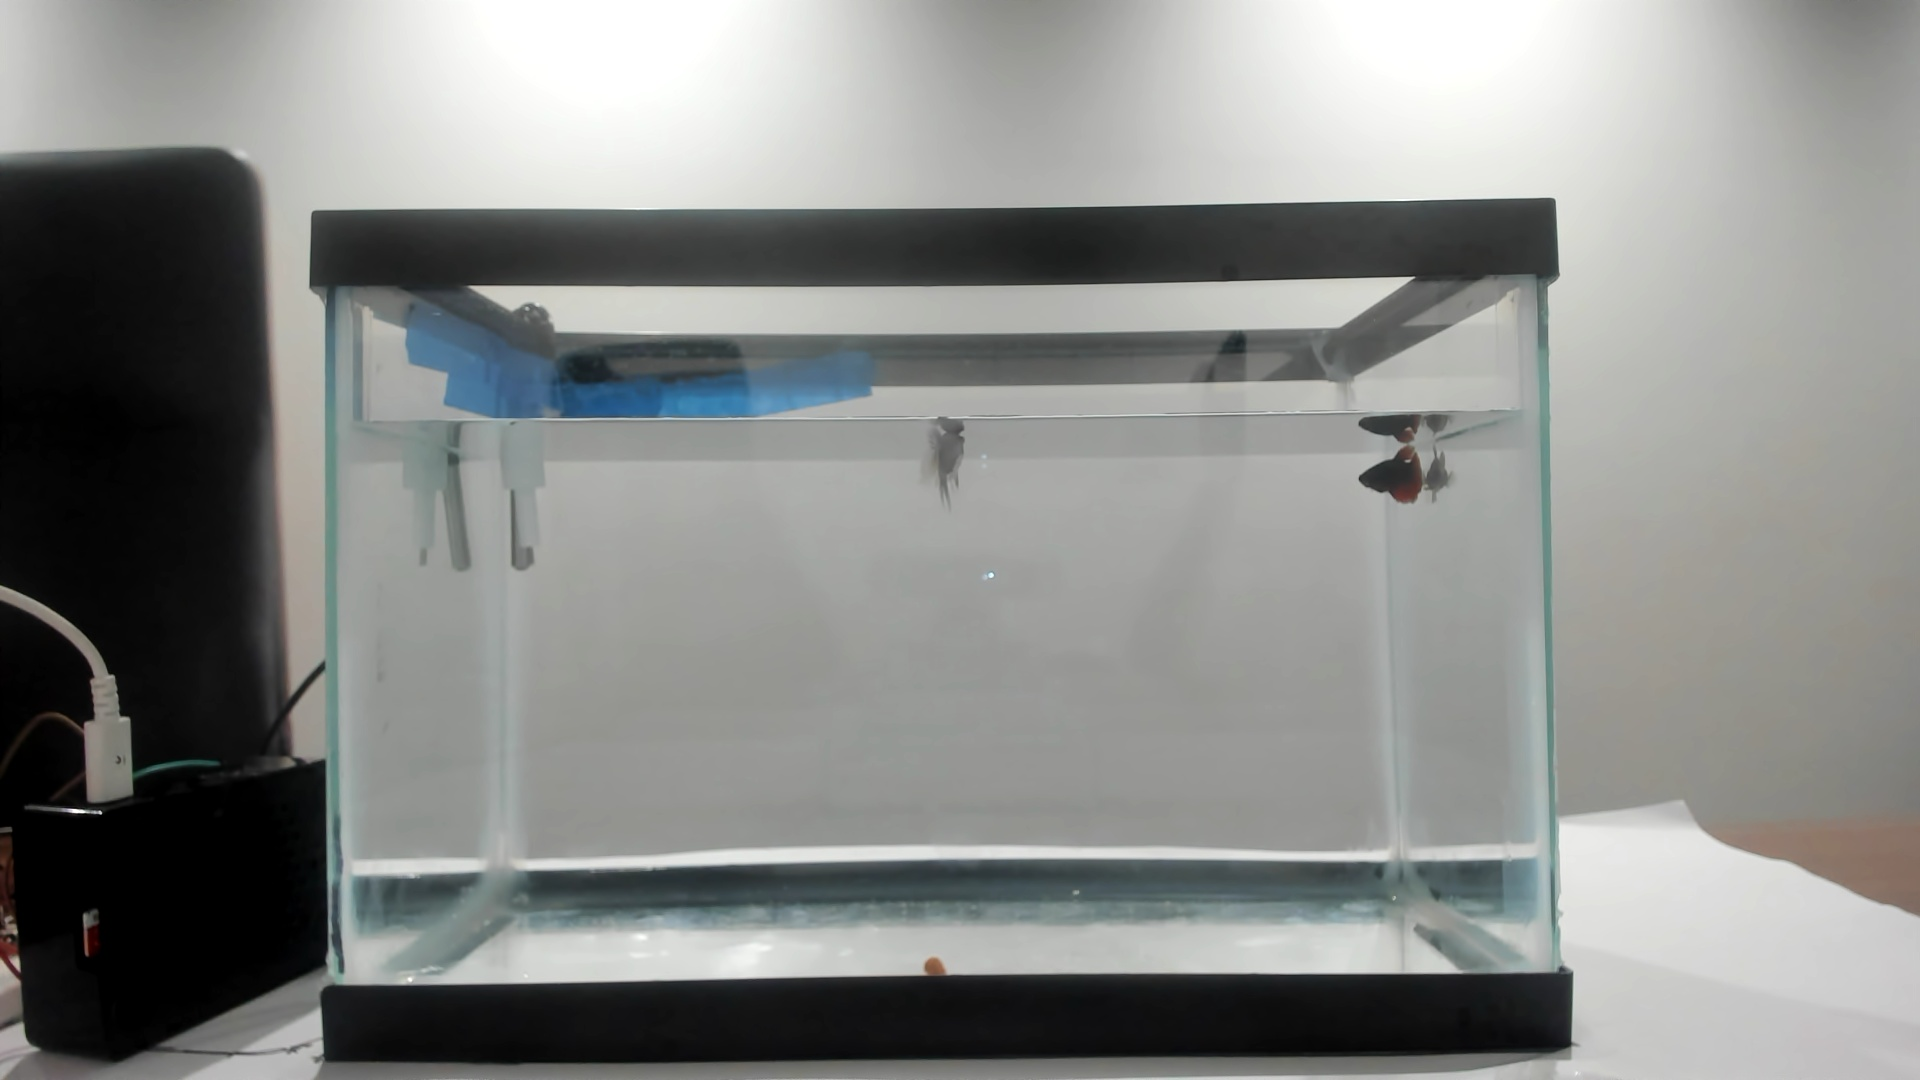
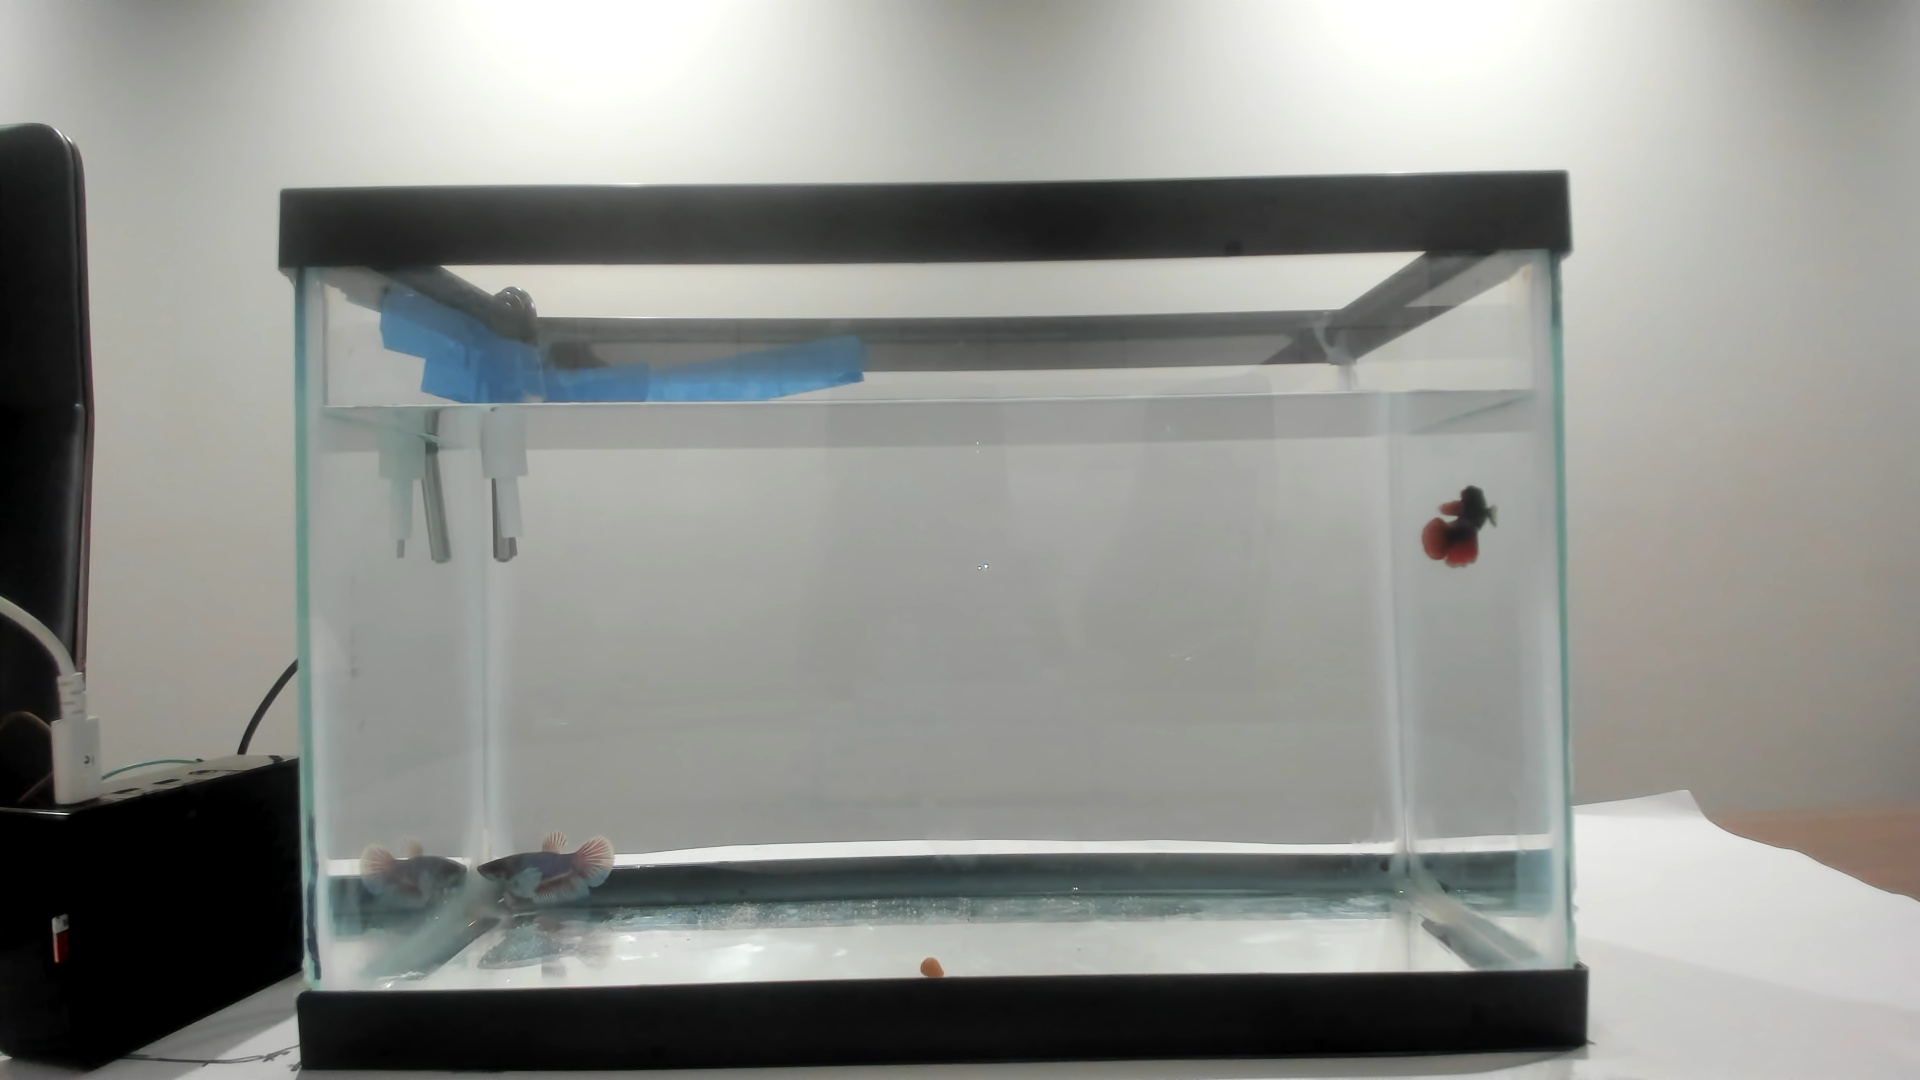
fish_tracking 2.0

Changed region(s): [[0.0, 0.0917, 0.9375, 1.0], [0.9688, 0.825, 1.0, 0.8556], [0.9375, 0.7944, 0.9688, 0.825]]

diff --git a/fish_tracking.py b/fish_tracking.py
@@ -9,7 +9,7 @@ def process_video(video_path):
     else:
         device = 'cpu'
     model = YOLO("fish.pt").to(device)  # Load your YOLO model
- 
+
     # Retrieve class names directly from the model
     class_names = model.names
 
@@ -26,10 +26,9 @@ def process_video(video_path):
         # Read a frame from the video
         success, frame = cap.read()
 
+        cv2.imwrite('frame.jpg', frame) 
+
         if success:
-
-            cv2.imwrite('frame.jpg', frame) 
-
             # Define the cropping region (ROI)
             x_start = 497  # X-coordinate of the top-left corner of the crop
             y_start = 477  # Y-coordinate of the top-left corner of the crop
@@ -45,7 +44,7 @@ def process_video(video_path):
             # Draw a white rectangle for visualization
             cv2.rectangle(cropped_frame, (rect_x, rect_y), (rect_x + rect_width, rect_y + rect_height), (255, 255, 255), -1)
 
-            # Run YOLO tracking on the frame, persisting tracks between frames
+            # Run YOLO tracking on the cropped frame
             results = model.track(cropped_frame, persist=True, tracker="botsort.yaml")
 
             # Loop through the results and extract bounding boxes, class names, confidence, and tracking ID
@@ -78,18 +77,24 @@ def process_video(video_path):
                             pattern = get_patterns(c_curr, track_id)  # Store pattern based on track_id
                             pre_p = c_curr
 
-                            # Draw the movement patterns on the frame
+                            # Draw the movement patterns on the cropped frame
                             for p in pattern[-20::5]:  # Skip every 5th frame to avoid clutter
                                 cv2.circle(cropped_frame, p, 3, (0, 255, 0), -1)  # Draw small circles at each point
                                 if pre_p != c_curr:
                                     cv2.line(cropped_frame, pre_p, p, (0, 255, 0), 1)  # Draw lines connecting points
                                 pre_p = p
 
-            # Visualize the results on the frame
-            annotated_frame = results[0].plot()
+            # Visualize the results on the cropped frame
+            annotated_cropped_frame = results[0].plot()
 
-            # Display the annotated frame
-            cv2.imshow("YOLO Tracking", annotated_frame)
+            # Overlay the annotated cropped frame back onto the original frame
+            frame[y_start:y_start+new_height, x_start:x_start+new_width] = annotated_cropped_frame
+
+            # Draw a dotted rectangle around the crop area on the original frame
+            draw_dotted_rectangle(frame, (x_start, y_start), (x_start + new_width, y_start + new_height), color=(0, 0, 255), thickness=1, gap=5)
+
+            # Display the full frame with annotations
+            cv2.imshow("YOLO Tracking", frame)
 
         # Break the loop if 'q' is pressed
         if cv2.waitKey(1) & 0xFF == ord("q"):
@@ -115,8 +120,25 @@ def get_patterns(center, track_id):
     # Keep only the last 30 positions, remove older ones
     if len(dict_tracks["Fish"][track_id]) > 30:
         del dict_tracks["Fish"][track_id][:10]
-        
+
     return dict_tracks["Fish"][track_id]
+
+def draw_dotted_rectangle(img, pt1, pt2, color, thickness=1, gap=5):
+    x1, y1 = pt1
+    x2, y2 = pt2
+
+    # Draw top edge
+    for x in range(x1, x2, gap*2):
+        cv2.line(img, (x, y1), (min(x+gap, x2), y1), color, thickness)
+    # Draw bottom edge
+    for x in range(x1, x2, gap*2):
+        cv2.line(img, (x, y2), (min(x+gap, x2), y2), color, thickness)
+    # Draw left edge
+    for y in range(y1, y2, gap*2):
+        cv2.line(img, (x1, y), (x1, min(y+gap, y2)), color, thickness)
+    # Draw right edge
+    for y in range(y1, y2, gap*2):
+        cv2.line(img, (x2, y), (x2, min(y+gap, y2)), color, thickness)
 
 # Define video path
 video_path = 0  # Use 0 for webcam, or path to a video file for video
